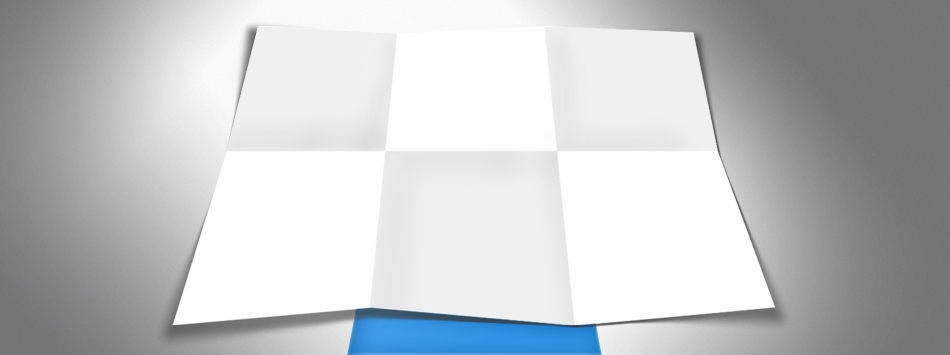
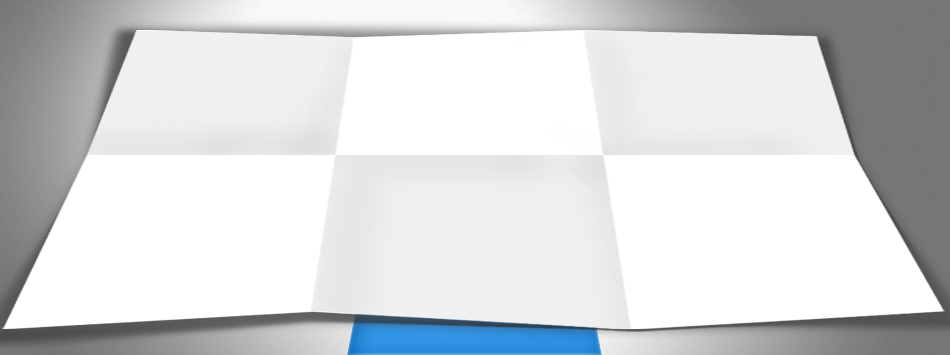
Updated home map mask

Changed region(s): [[0.0, 0.062, 1.0, 0.9915], [0.2442, 0.3408, 0.5495, 0.4958]]

diff --git a/app/assets/stylesheets/_modules.scss b/app/assets/stylesheets/_modules.scss
@@ -353,9 +353,9 @@ form{
         position: absolute;
         top: 0;
         left: 0;
-        height: 586px;
-        width: 1000px;
-        background: url('../img/mask.png') no-repeat;
+        height: 355px;
+        width: 950px;
+        background: url('../img/mask2.png') no-repeat;
         background-size: 100%;
         pointer-events:none;
     }
